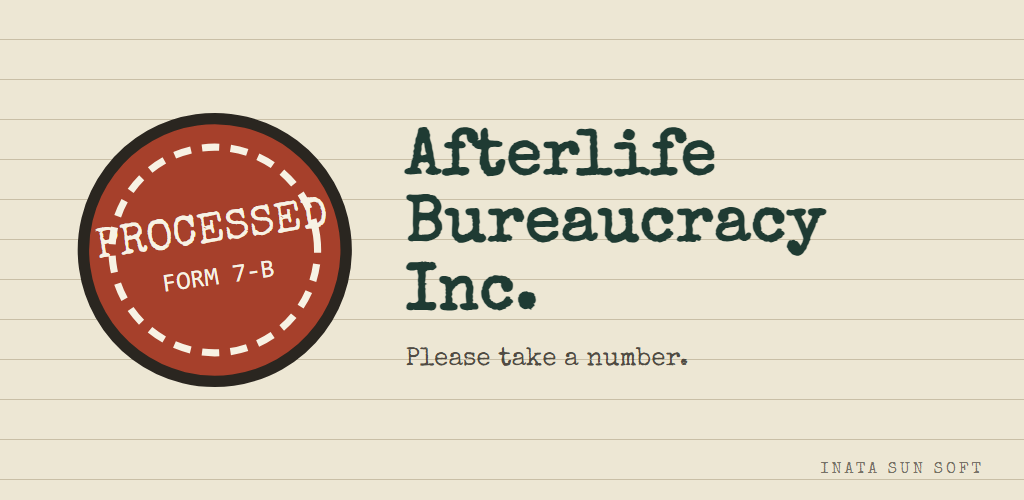
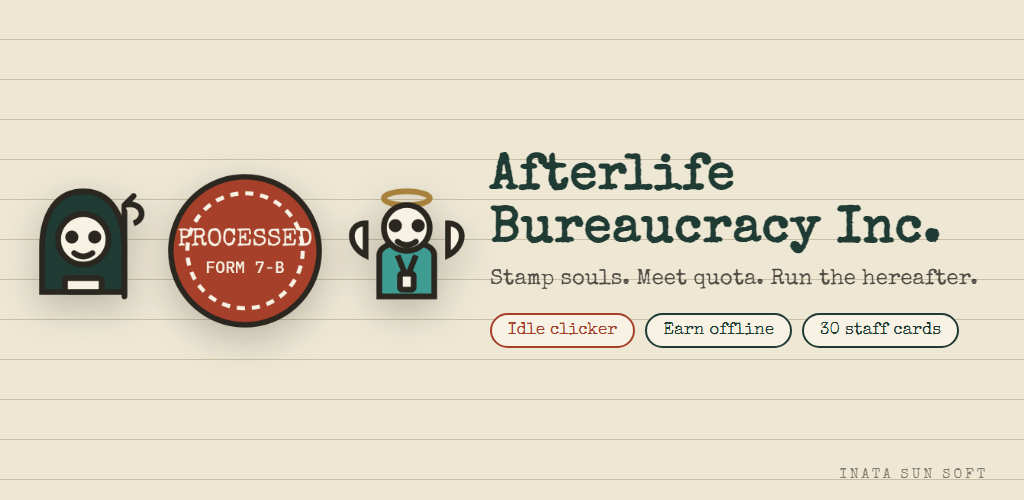
feat(store): feature graphic with the title cast, tagline and feature pills

Changed region(s): [[0.0312, 0.21, 0.9688, 0.78], [0.8125, 0.9, 0.9688, 0.96]]

diff --git a/docs/store/play-games/achievements.md b/docs/store/play-games/achievements.md
@@ -4,23 +4,23 @@ One row per mirrored achievement; upload the icon and paste the description on e
 
 | # | Achievement | Description | Play id | Icon |
 |---|---|---|---|---|
-| 1 | First Thousand | Filed one thousand souls. Somebody has to. | `CgkIi5ONn5EeEAIQGw` | `a-souls-1.png` |
-| 2 | Ten Thousand Stamped | The stamp is getting warm. | `CgkIi5ONn5EeEAIQIA` | `a-souls-2.png` |
-| 3 | A Million Filed | HR sent a card. It was a form. | `CgkIi5ONn5EeEAIQGA` | `a-souls-4.png` |
-| 4 | Ten Billion and Counting | Counting is now automated. You are not. | `CgkIi5ONn5EeEAIQFw` | `a-souls-6.png` |
-| 5 | Beyond the Ledger | The ledger ran out of pages years ago. | `CgkIi5ONn5EeEAIQHQ` | `a-souls-8.png` |
-| 6 | Repetitive Stress, Embraced | A thousand stamps. The wrist remembers. | `CgkIi5ONn5EeEAIQJQ` | `a-clicks-2.png` |
-| 7 | Fifty on Payroll | Payroll is a suggestion at this point. | `CgkIi5ONn5EeEAIQIg` | `a-staff-2.png` |
-| 8 | A Thousand Employees | Nobody knows everyone's name. Not even HR. | `CgkIi5ONn5EeEAIQIw` | `a-staff-4.png` |
-| 9 | Three Departments | The org chart needs a second page. | `CgkIi5ONn5EeEAIQGQ` | `a-depts-2.png` |
-| 10 | Five Departments | Almost the whole afterlife, under one roof. Poor roof. | `CgkIi5ONn5EeEAIQJg` | `a-depts-4.png` |
-| 11 | Books Closed | One fiscal year, closed and filed. | `CgkIi5ONn5EeEAIQIQ` | `a-audits-1.png` |
-| 12 | Ten Fiscal Years | A decade of eternity, notarized. | `CgkIi5ONn5EeEAIQGg` | `a-audits-3.png` |
-| 13 | One Hundred Seals | The wax budget has been exceeded. | `CgkIi5ONn5EeEAIQJw` | `a-seals-2.png` |
-| 14 | Five-Card Roster | A small deck. A dangerous amount of confidence. | `CgkIi5ONn5EeEAIQHw` | `a-cards-2.png` |
-| 15 | The Full Collection | Every card drawn at least once. Somehow. | `CgkIi5ONn5EeEAIQKQ` | `a-cards-5.png` |
-| 16 | First Executive Card | An executive-tier personnel card. Very rare. Very tired. | `CgkIi5ONn5EeEAIQHg` | `a-execs-1.png` |
-| 17 | First Five-Star Pull | Maximum rank, minimum luck required. | `CgkIi5ONn5EeEAIQJA` | `a-fivestar-1.png` |
-| 18 | Twenty-One Dailies | Three weeks of showing up. Nobody's counting but the app. | `CgkIi5ONn5EeEAIQKg` | `a-dailies-2.png` |
-| 19 | Seven Days a Week | A full week without a single skipped shift. | `CgkIi5ONn5EeEAIQKA` | `a-streak-2.png` |
-| 20 | Thirty-Day Streak | A month unbroken. Legal calls it suspicious. | `CgkIi5ONn5EeEAIQHA` | `a-streak-3.png` |
+| 1 | First Thousand | Filed one thousand souls. Somebody has to. | `CgkIi5ONn5EeEAIQLw` | `a-souls-1.png` |
+| 2 | Ten Thousand Stamped | The stamp is getting warm. | `CgkIi5ONn5EeEAIQNA` | `a-souls-2.png` |
+| 3 | A Million Filed | HR sent a card. It was a form. | `CgkIi5ONn5EeEAIQLA` | `a-souls-4.png` |
+| 4 | Ten Billion and Counting | Counting is now automated. You are not. | `CgkIi5ONn5EeEAIQKw` | `a-souls-6.png` |
+| 5 | Beyond the Ledger | The ledger ran out of pages years ago. | `CgkIi5ONn5EeEAIQMQ` | `a-souls-8.png` |
+| 6 | Repetitive Stress, Embraced | A thousand stamps. The wrist remembers. | `CgkIi5ONn5EeEAIQOQ` | `a-clicks-2.png` |
+| 7 | Fifty on Payroll | Payroll is a suggestion at this point. | `CgkIi5ONn5EeEAIQNg` | `a-staff-2.png` |
+| 8 | A Thousand Employees | Nobody knows everyone's name. Not even HR. | `CgkIi5ONn5EeEAIQNw` | `a-staff-4.png` |
+| 9 | Three Departments | The org chart needs a second page. | `CgkIi5ONn5EeEAIQLQ` | `a-depts-2.png` |
+| 10 | Five Departments | Almost the whole afterlife, under one roof. Poor roof. | `CgkIi5ONn5EeEAIQOg` | `a-depts-4.png` |
+| 11 | Books Closed | One fiscal year, closed and filed. | `CgkIi5ONn5EeEAIQNQ` | `a-audits-1.png` |
+| 12 | Ten Fiscal Years | A decade of eternity, notarized. | `CgkIi5ONn5EeEAIQLg` | `a-audits-3.png` |
+| 13 | One Hundred Seals | The wax budget has been exceeded. | `CgkIi5ONn5EeEAIQOw` | `a-seals-2.png` |
+| 14 | Five-Card Roster | A small deck. A dangerous amount of confidence. | `CgkIi5ONn5EeEAIQMw` | `a-cards-2.png` |
+| 15 | The Full Collection | Every card drawn at least once. Somehow. | `CgkIi5ONn5EeEAIQPQ` | `a-cards-5.png` |
+| 16 | First Executive Card | An executive-tier personnel card. Very rare. Very tired. | `CgkIi5ONn5EeEAIQMg` | `a-execs-1.png` |
+| 17 | First Five-Star Pull | Maximum rank, minimum luck required. | `CgkIi5ONn5EeEAIQOA` | `a-fivestar-1.png` |
+| 18 | Twenty-One Dailies | Three weeks of showing up. Nobody's counting but the app. | `CgkIi5ONn5EeEAIQPg` | `a-dailies-2.png` |
+| 19 | Seven Days a Week | A full week without a single skipped shift. | `CgkIi5ONn5EeEAIQPA` | `a-streak-2.png` |
+| 20 | Thirty-Day Streak | A month unbroken. Legal calls it suspicious. | `CgkIi5ONn5EeEAIQMA` | `a-streak-3.png` |
